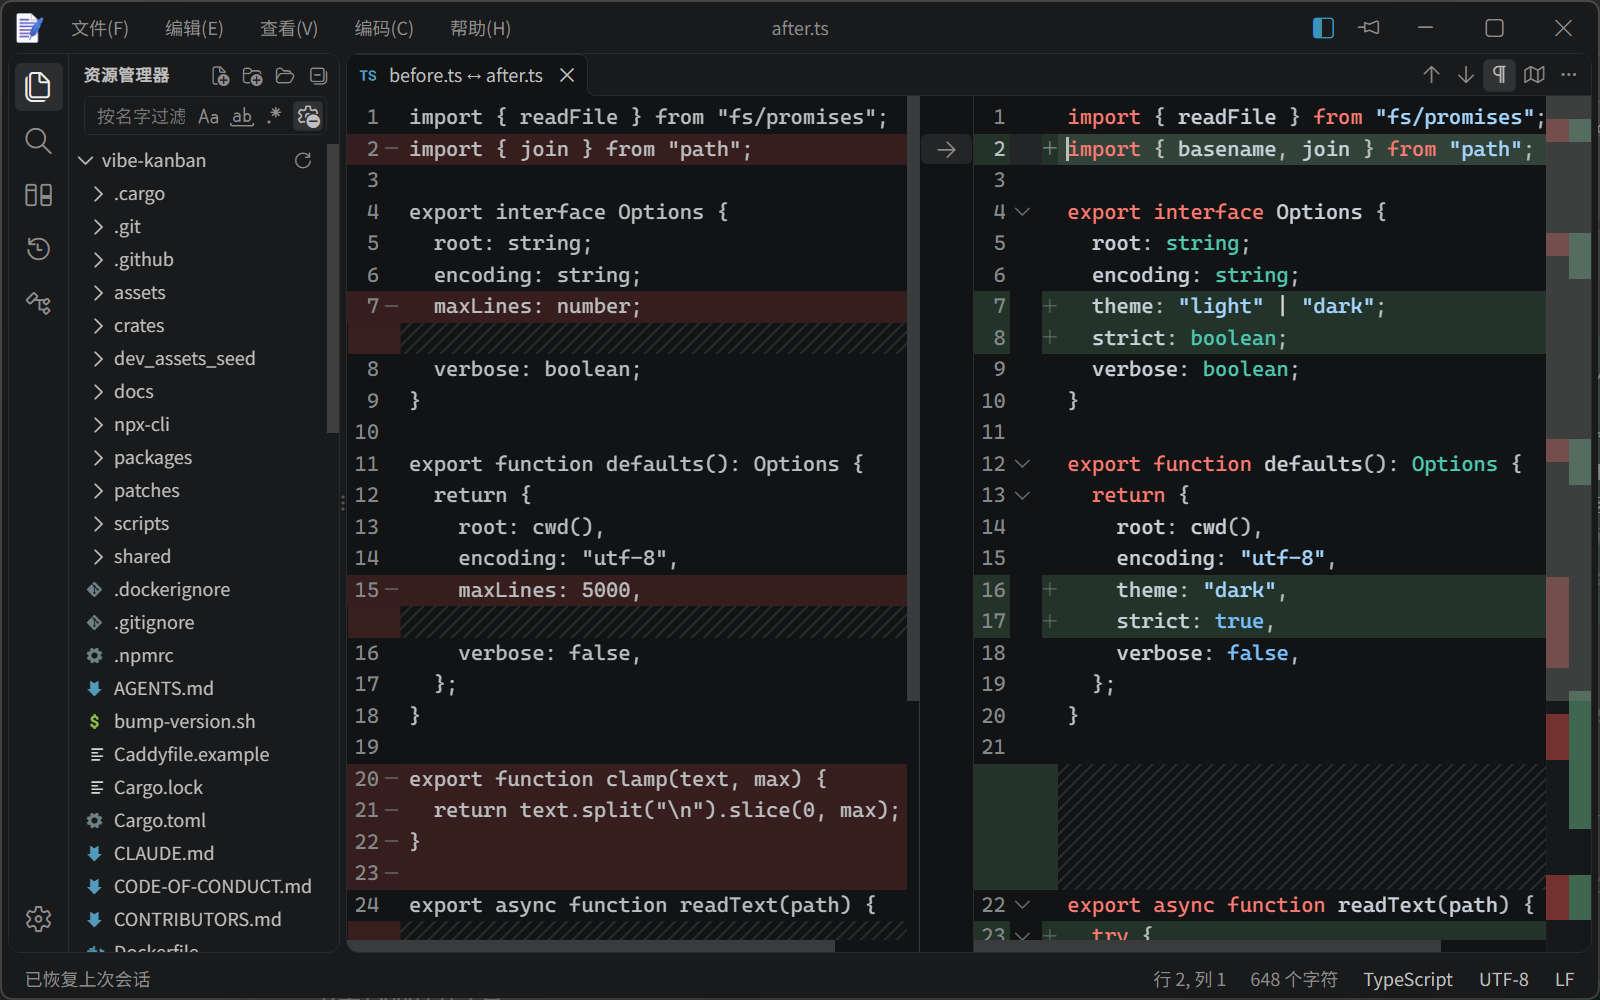
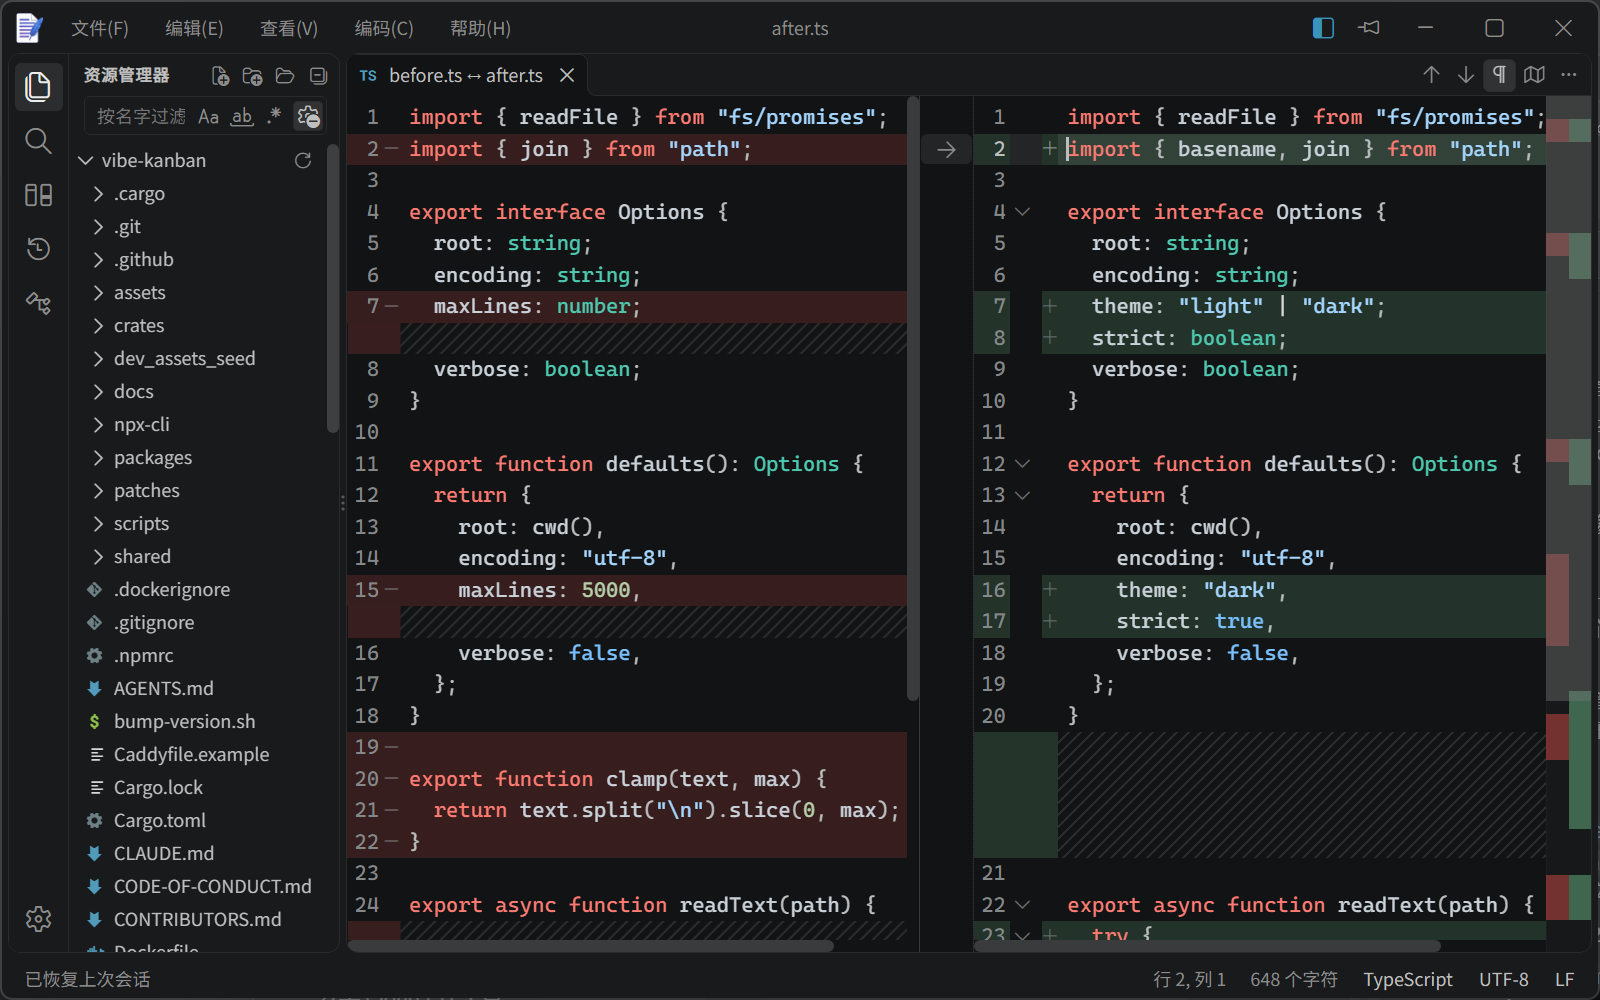
fix(diff): 差异编辑器左栏按自己的文件类型语法高亮

diff --git a/tests/diff-surface.test.ts b/tests/diff-surface.test.ts
@@ -39,6 +39,7 @@ import { afterEach, beforeEach, describe, expect, it, vi } from "vitest";
 import { readFileSync } from "node:fs";
 import { EditorView } from "@codemirror/view";
 import { EditorState } from "@codemirror/state";
+import { language } from "@codemirror/language";
 import { fnBody, ruleBlock, stripCssComments, stripLineComments } from "./static";
 import {
   docs,
@@ -50,6 +51,7 @@ import {
   type Tab,
 } from "../src/core/app-state";
 import { createEditor, makeTabState } from "../src/editor/editor";
+import { detectLanguage } from "../src/editor/language";
 import { perfProfileFor } from "../src/editor/perf";
 import { makeDoc, markClean } from "../src/doc-model";
 import { applyDarkToTabs, applyWrapToTabs } from "../src/appearance";
@@ -1372,5 +1374,47 @@ describe("B462 · 实测行高对齐（VS Code 的 alignment view zone）", () =
     expect(rightWrites, "超出对侧最大滚动量时写夹值").toEqual([200]);
     right.scrollDOM.dispatchEvent(new Event("scroll"));
     expect(leftWrites, "夹值后的回声不得回写驱动栏").toEqual([150, 180]);
+  });
+});
+
+describe("B461 · 两栏各按自己的文件类型解析", () => {
+  it("左栏按 leftName 的扩展名挂语言：.ts 有，无扩展名的显示名仍是纯文本", () => {
+    const hostEl = document.createElement("div");
+    hostEl.className = "panel-host";
+    document.body.appendChild(hostEl);
+    const panel = freshPanel();
+
+    const withLang = createDiffSurface(hostEl, panel, spec({ leftName: "left.ts" }));
+    expect(withLang.left.state.facet(language), "左栏 .ts 要挂上语言扩展").toBeTruthy();
+
+    const plain = createDiffSurface(hostEl, panel, spec({ leftName: "left" }));
+    expect(plain.left.state.facet(language), "认不出类型 ⇒ 与普通编辑器一样是纯文本").toBeNull();
+  });
+
+  it("两栏扩展名不同时各拿各的语言，谁也不从对侧借", () => {
+    const hostEl = document.createElement("div");
+    hostEl.className = "panel-host";
+    document.body.appendChild(hostEl);
+    const panel = freshPanel();
+
+    // 右栏那半的语言来自标签自己的 doc（`makeTabState` 的 lang 槽），这里拟成 .py。
+    const { state, comps } = makeTabState(
+      "x = 1\ny = 2",
+      detectLanguage("right.py").extension,
+      { dark: false, wrap: false, perf: perfProfileFor("normal") },
+      () => {},
+    );
+    const tab = tabWithKind("diff");
+    tab.state = state;
+    tab.comps = comps;
+    tab.diff = spec({ leftName: "left.ts" });
+    mount(hostEl, panel, tab);
+
+    const surface = diffSurfaceOf(panel)!;
+    const leftLang = surface.left.state.facet(language);
+    const rightLang = panel.view!.view.state.facet(language);
+    expect(leftLang, "左栏 .ts 有自己的语言").toBeTruthy();
+    expect(rightLang, "右栏 .py 有自己的语言").toBeTruthy();
+    expect(leftLang, "两栏不共用同一颗 Language（各自 token 化）").not.toBe(rightLang);
   });
 });

diff --git a/src/diff/surface.ts b/src/diff/surface.ts
@@ -20,6 +20,7 @@
 
 import { Compartment, EditorState, StateEffect, type Extension } from "@codemirror/state";
 import { EditorView, BlockType, lineNumbers } from "@codemirror/view";
+import { detectLanguage } from "../editor/language";
 import { activePanelId, docs, isWrap, panels, tabs, type Panel } from "../core/app-state";
 import { landVisibleSideAtV } from "../sync-scroll/wire";
 import { DIFF_REFRESH_MS } from "./align";
@@ -217,6 +218,11 @@ function leftState(
   theme: Extension,
   wrap: Extension,
 ): EditorState {
+  // 左栏按**自己的文件类型**解析，不从右栏借语言（VS Code 的差异编辑器给两份 model 各挂
+  // 自己的 language id：`DiffEditorViewModel` 直接读 `originalModel.getLanguageId()` /
+  // `modifiedModel.getLanguageId()`，两侧 token 化互不影响）。B 档跨扩展名比较时（.md ↔ .ts），
+  // 两栏因此各是各的高亮；A 档两侧同名，自然同一套。
+  const language = detectLanguage(spec.leftName).extension;
   return EditorState.create({
     doc: spec.leftText(),
     extensions: [
@@ -225,6 +231,7 @@ function leftState(
       EditorView.contentAttributes.of({ tabindex: "0" }),
       EditorState.transactionFilter.of((tr) => (tr.docChanged ? [] : tr)),
       lineNumbers(),
+      ...(language ? [language] : []),
       theme,
       wrap,
       face,
